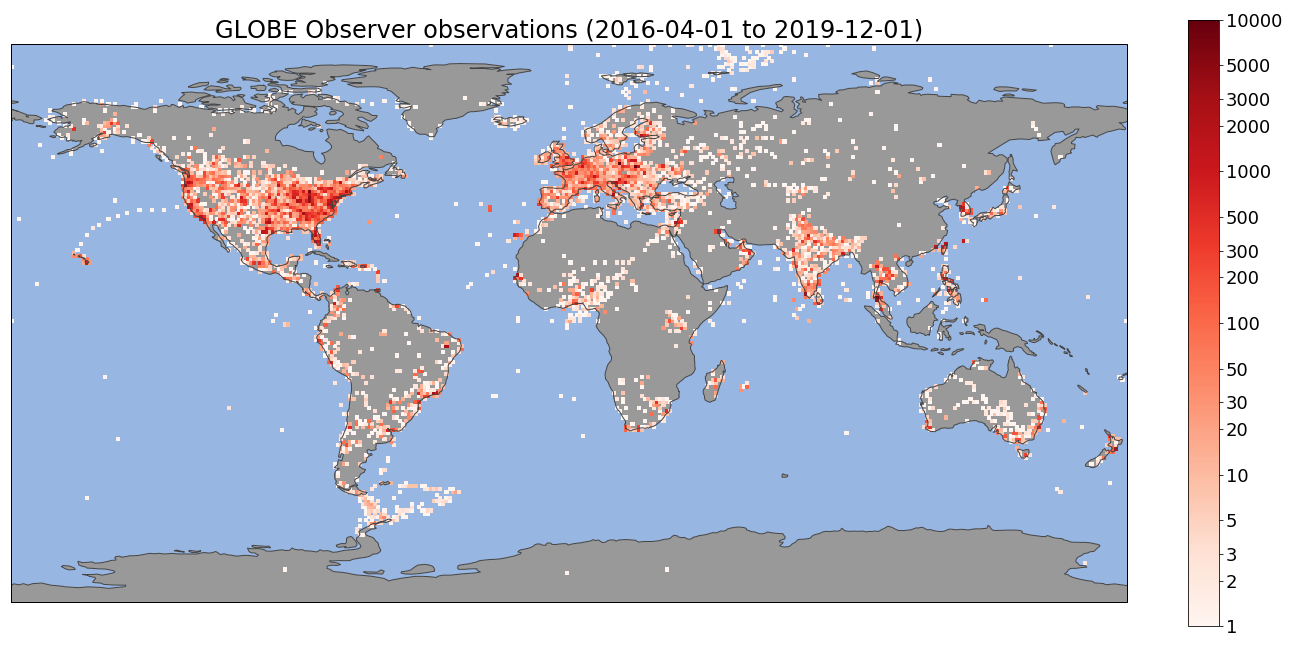
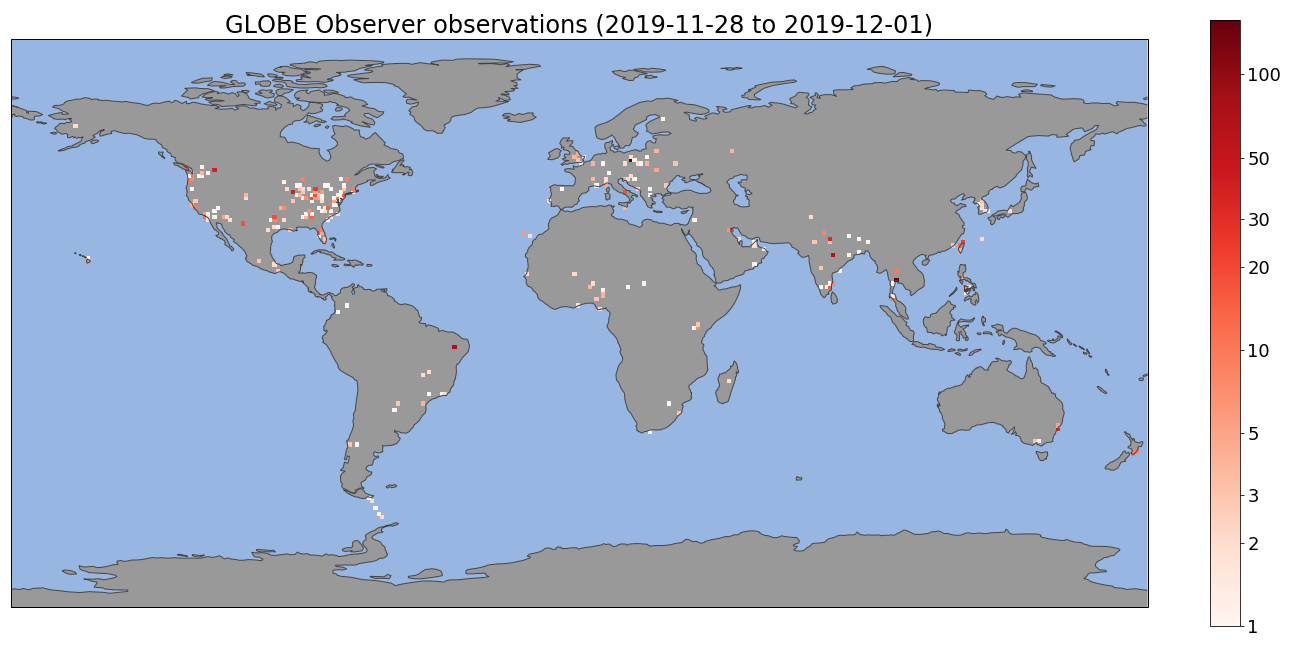
Code updates to deal with GLOBE API update

Changed region(s): [[0.0, 0.0, 0.9877, 0.9568], [0.5247, 0.8025, 0.8025, 0.8642], [0.679, 0.2469, 0.7099, 0.2778]]

diff --git a/make_fig06.py b/make_fig06.py
@@ -15,6 +15,10 @@
 # 02 Dec 2019 - HM Amos - Move global variables used by other plotting modules
 #                         to data_common.py. Modify so make_fig02 can be called 
 #                         by main.py            
+# 27 Feb 2020 - HM Amos - Updates to deal with latest API update. Photo URLs
+#                         are now 'null' if a participant didn't submit anything,
+#                         so you have to explicitly check for 'nulls' when
+#                         counting photos.         
 #
 # CITATION
 # Amos, H.M. and M.J. Starke et al., 2020, GLOBE Observer
@@ -50,15 +54,25 @@ def mainfig06():
 
     # For each observation...
     for ob in tqdm(obs5, desc="Sifting observations"):
-        # Count how many photos are included.
-        photos = len(ob.photo_urls)
+        # Count how many photos are included, check for 'nulls'
+#        photos = len(ob.photo_urls)
+        photos = 0
+        if ob.photo_urls['North'] != 'null': photos +=1
+        if ob.photo_urls['East'] != 'null': photos +=1
+        if ob.photo_urls['South'] != 'null': photos +=1
+        if ob.photo_urls['West'] != 'null': photos +=1
+        if ob.photo_urls['Upward'] != 'null': photos +=1
+        if ob.photo_urls['Downward'] != 'null': photos +=1                
 
+        # Increment count 
         vals["{} photo{}".format(photos, "s" if photos != 1 else "")] += 1
 
         # If 5 (of 6) photos were submitted, record which direction was submitted
+        # Check for 'nulls'
         if photos == 5:
             for direction in vals_2.keys():
-                if direction not in ob.photo_urls.keys():
+#                if direction not in ob.photo_urls.keys():
+                if ob.photo_urls[direction] != 'null':
                     vals_2[direction] += 1
 
     # Compute total number of observations for calculating percentages for slice labels

diff --git a/make_fig04.py b/make_fig04.py
@@ -15,6 +15,8 @@
 # 02 Dec 2019 - HM Amos - Move global variables used by other plotting modules
 #                         to data_common.py. Modify so make_fig02 can be called 
 #                         by main.py            
+# 27 Feb 2020 - HM Amos - Add error check in case startdate is after the 2017
+#                         eclipse         
 #
 # CITATION
 # Amos, H.M. and M.J. Starke et al., 2020, GLOBE Observer
@@ -39,7 +41,7 @@ def mainfig04():
     # - Uncomment this line to plot the figure with GO+GLOBE cloud data
     #obs = all_cld_obs
     
-    # Create a list of dates from 2017 Jan 01 through 2019 May 31.
+    # Create a list of dates 
     day = startdate
     dates = []
     while day <= enddate:
@@ -60,7 +62,7 @@ def mainfig04():
     ax.grid(axis="y")
 
     # Label events with unusually high observation count
-    if 1:
+    if startdate < date(2017,8,26):
         ax.text(date(2017, 8, 26),1600, "North American\nEclipse")
         ax.text(date(2018, 4, 1), 1600, "2018 Spring \nClouds Challenge")
         ax.text(date(2019, 7, 1), 1600, "2019 Fall \nClouds Challenge")

diff --git a/data_common.py b/data_common.py
@@ -27,7 +27,7 @@ from globeqa import tools, plotters
 protocols = ["sky_conditions", "land_covers", "mosquito_habitat_mapper", "tree_heights"]
 
 # Define start & end date of daterange
-startdate = date(2016,4,1)    # start of date range, format is YYYY,MM,DD
+startdate = date(2019,11,28)    # start of date range, format is YYYY,MM,DD
 enddate   = date(2019,12,1)   # end   of date range, format is YYYY,MM,DD
 
 # Download GLOBE observations from API for given protocol(s) and date range
